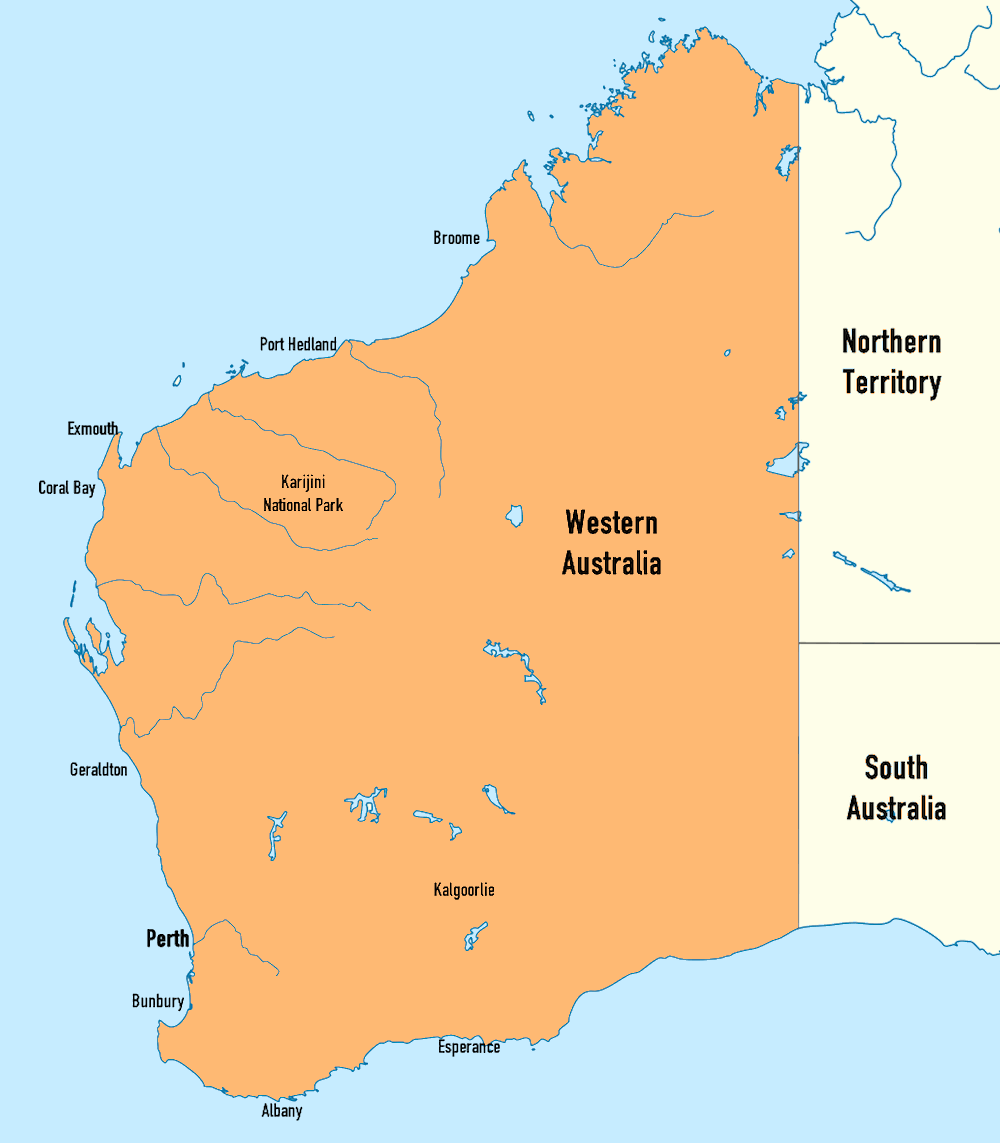
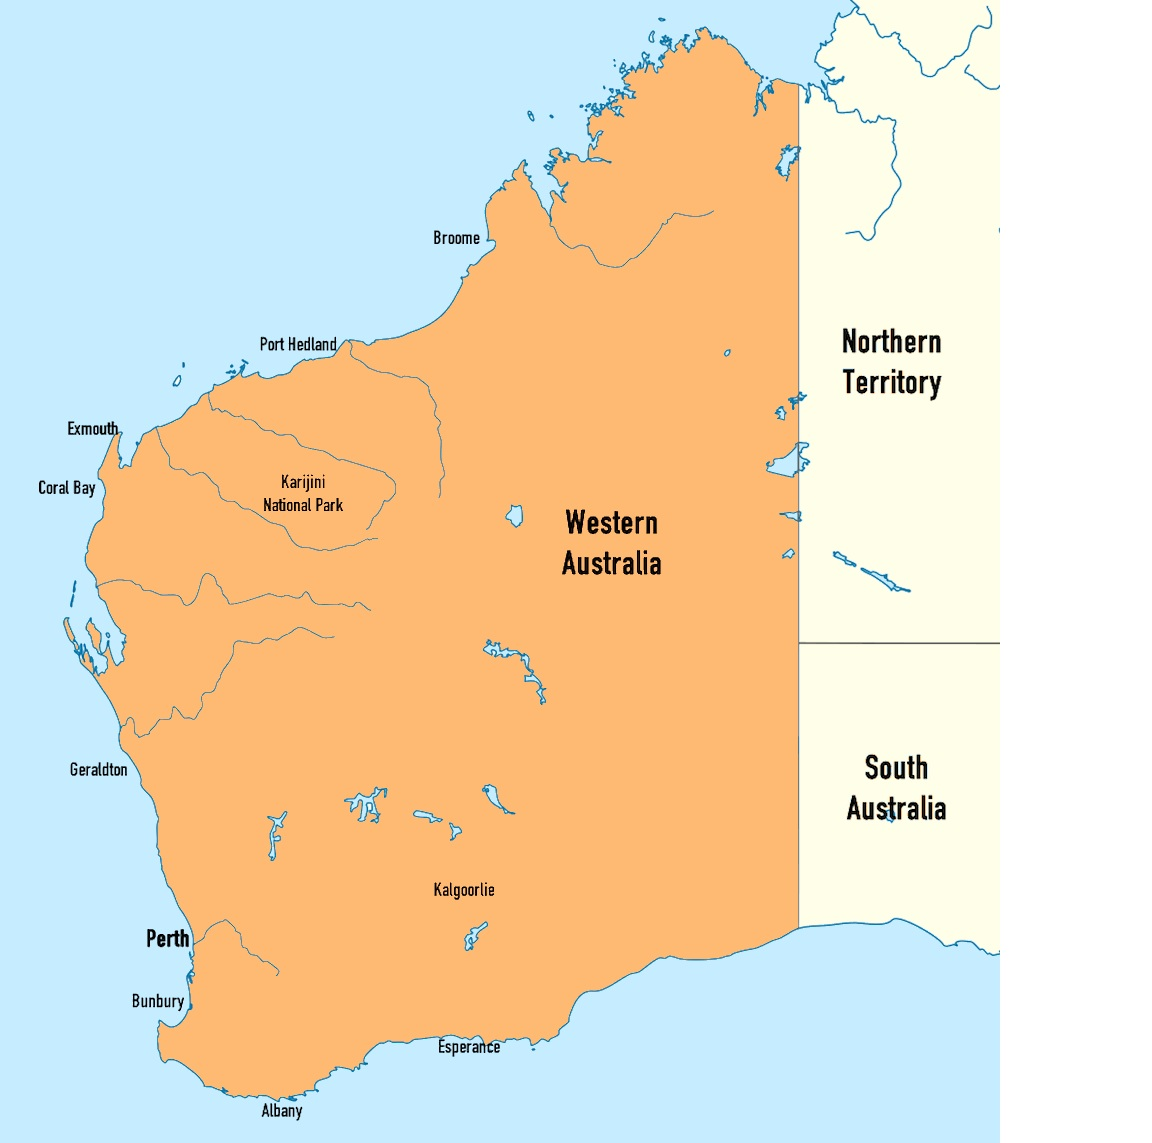
activity 3-6 done

diff --git a/comp001.htm b/comp001.htm
@@ -20,14 +20,14 @@
     <aside>
         <figure>
             <a href="https://en.wikipedia.org/wiki/Mining_in_Western_Australia" target="_blank">
-                <img src="WA-map-images.jpg" alt="WA map">
+                <img src="BHP-map-images.jpg" alt="WA map">
             </a>
             <footer>
                 <small>&copy; Copyright © 2026 Nomads World Hotels Pty Ltd</small>
             </footer>
 
             <figcaption>
-                Map of Western Australia
+                Main location of BHP mining operations in Western Australia
             </figcaption>
         </figure>
     </aside>
@@ -35,22 +35,29 @@
 
     <main>
 
-        <h2>BHP</h2>
-
         <h2>Mining Operations</h2>
+
         <ul>
-            <li>Mining operations in the Pilbara region of Western Australia.</li>
-            <li>Iron ore mining operations.</li>
+            <li>Newman Operations: Major iron ore mining hub.</li>
+            <li>Jimblebar: Inland Pilbara mining operation.</li>
+            <li>Mining Area C: Iron ore hub incorporating the South Flank deposit.</li>
+            <li>Yandi: Established Pilbara iron ore mine</li>
         </ul>
 
         <h2>What BHP Mines</h2>
-        <p>BHP mines iron ore in Western Australia.</p>
+
+        <p>
+            BHP mines essential commodities, primarily focusing on iron ore, copper, metallurgical (steelmaking) coal,
+            and potash, along with associated byproducts like gold, silver, and uranium
+        </p>
 
         <h2>Employees</h2>
-        <p>BHP employs thousands of people across its operations.</p> sedimentary rock used in construction and cement
-        production.</li>
-        </ul>
 
+        <p>
+            BHP employs approximately 40,238 direct employees and over 80,000 total workers including contractors
+            globally as of mid-2026
+
+        </p>
     </main>
 
 </body>

diff --git a/companies.htm b/companies.htm
@@ -36,29 +36,30 @@
                     <th>Company Name</th>
                     <th>Current CEO</th>
                     <th>Link to Company Webpage</th>
+                    
                 </tr>
 
                 <tr>
-                    <td>BHP</td>
+                    <td><a href="comp001.htm" target=“currcompany”.>BHP</a></td>
                     <td>Brandon Craig</td>
-                    <td><a href="https://www.bhp.com/" target="_blank">BHP</a></td>
+                    <td><a href="https://www.bhp.com/" target="_blank".>BHP</a></td>
                 </tr>
 
                 <tr>
-                    <td>Rio Tinto</td>
+                    <td><a href="comp002.htm" target=“currcompany”.>Rio Tinto</a></td>
                     <td>Simon Trott</td>
                     <td><a href="https://www.riotinto.com/" target="_blank">Rio Tinto</a></td>
                 </tr>
 
                 <tr>
-                    <td>Fortescue</td>
+                    <td><a href="comp003.htm" target=“currcompany”.>Fortescue</a></td>
                     <td>Dino Otranto</td>
                     <td><a href="https://www.fortescue.com/" target="_blank">Fortescue</a></td>
                 </tr>
 
                 <tr>
                     <td>Northern Star Resources</td>
-                    <td>Ryan Gurner (Interim CEO)</td>
+                    <td>Ryan Gurner </td>
                     <td><a href="https://www.nsrltd.com/" target="_blank">Northern Star Resources</a></td>
                 </tr>
 

diff --git a/comp003.htm b/comp003.htm
@@ -30,26 +30,23 @@
 
         <h2>Mining Operations</h2>
 
-        <p>
-            Fortescue operates several mining operations in the
-            Pilbara region of Western Australia. Its operations
-            include Christmas Creek, Cloudbreak, Eliwana, Solomon
-            and Iron Bridge.
-        </p>
-
+        <ul>
+            <li>Chichester Hub: Includes Cloudbreak and Christmas Creek mines in the Pilbara region.</li>
+            <li>Western Hub: Includes Solomon Hub and Eliwana mine in the Pilbara region.</li>
+            <li>Iron Bridge: A magnetite project located in the Pilbara region.</li>
+        </ul>
         <h2>What Fortescue Mines</h2>
 
         <p>
-            Fortescue mainly mines iron ore in Western Australia.
-            Its Pilbara operations produce iron ore for customers
-            around the world.
+            Fortescue operates major iron ore mining hubs in the Pilbara region of Western Australia, anchored by the
+            Chichester Hub, Western Hub, and Iron Bridge operations
         </p>
 
         <h2>Employees</h2>
 
         <p>
-            More than 20,000 people work across Fortescue's global
-            team.
+            Fortescue employs approximately 10,000 to 16,000 staff globally across its metals, energy, and corporate
+            operations
         </p>
 
     </main>

diff --git a/comp002.htm b/comp002.htm
@@ -32,19 +32,16 @@
 
         <h2>Mining Operations</h2>
 
-        <p>
-            Rio Tinto operates an integrated network of iron ore mines
-            in the Pilbara region of Western Australia. Its operations
-            include Tom Price, Paraburdoo, Gudai-Darri, Yandicoogina,
-            West Angelas and other mining operations.
-        </p>
-
+        <ul>
+            <li>Brockman Hub: Includes Brockman 2, Brockman 4, and Silvergrass in the western Pilbara.</li>
+            <li>Greater Paraburdoo: Includes Paraburdoo, Eastern Range, Channar, and Western Range.</li>
+            <li>Greater Tom Price & Marandoo: Includes Mount Tom Price, Marandoo, and Western Turner Syncline</li>
+            <li>Gudai-Darri: Rio Tinto's newest and most technologically advanced iron ore mine in the Pilbara.</li>
+        </ul>
         <h2>What RIO TINTO Mines</h2>
 
         <p>
-            io Tinto mainly mines iron ore in Western Australia.
-            Its Pilbara operations produce iron ore products including
-            Pilbara Blend, which is used by steel producers.
+            Rio Tinto operates a major global network of 18 iron ore mines in the Pilbara region of Western Australia,
         </p>
 
         <h2>Employees</h2>

diff --git a/style.css b/style.css
@@ -52,7 +52,11 @@ header {
 
 nav {
     flex: 100vw;
-    height: 6vh;
+    height: 15vh;
+    padding-left: 15vw;
+}
+nav a {
+    margin-right: 2vw;
 }
 
 aside {
